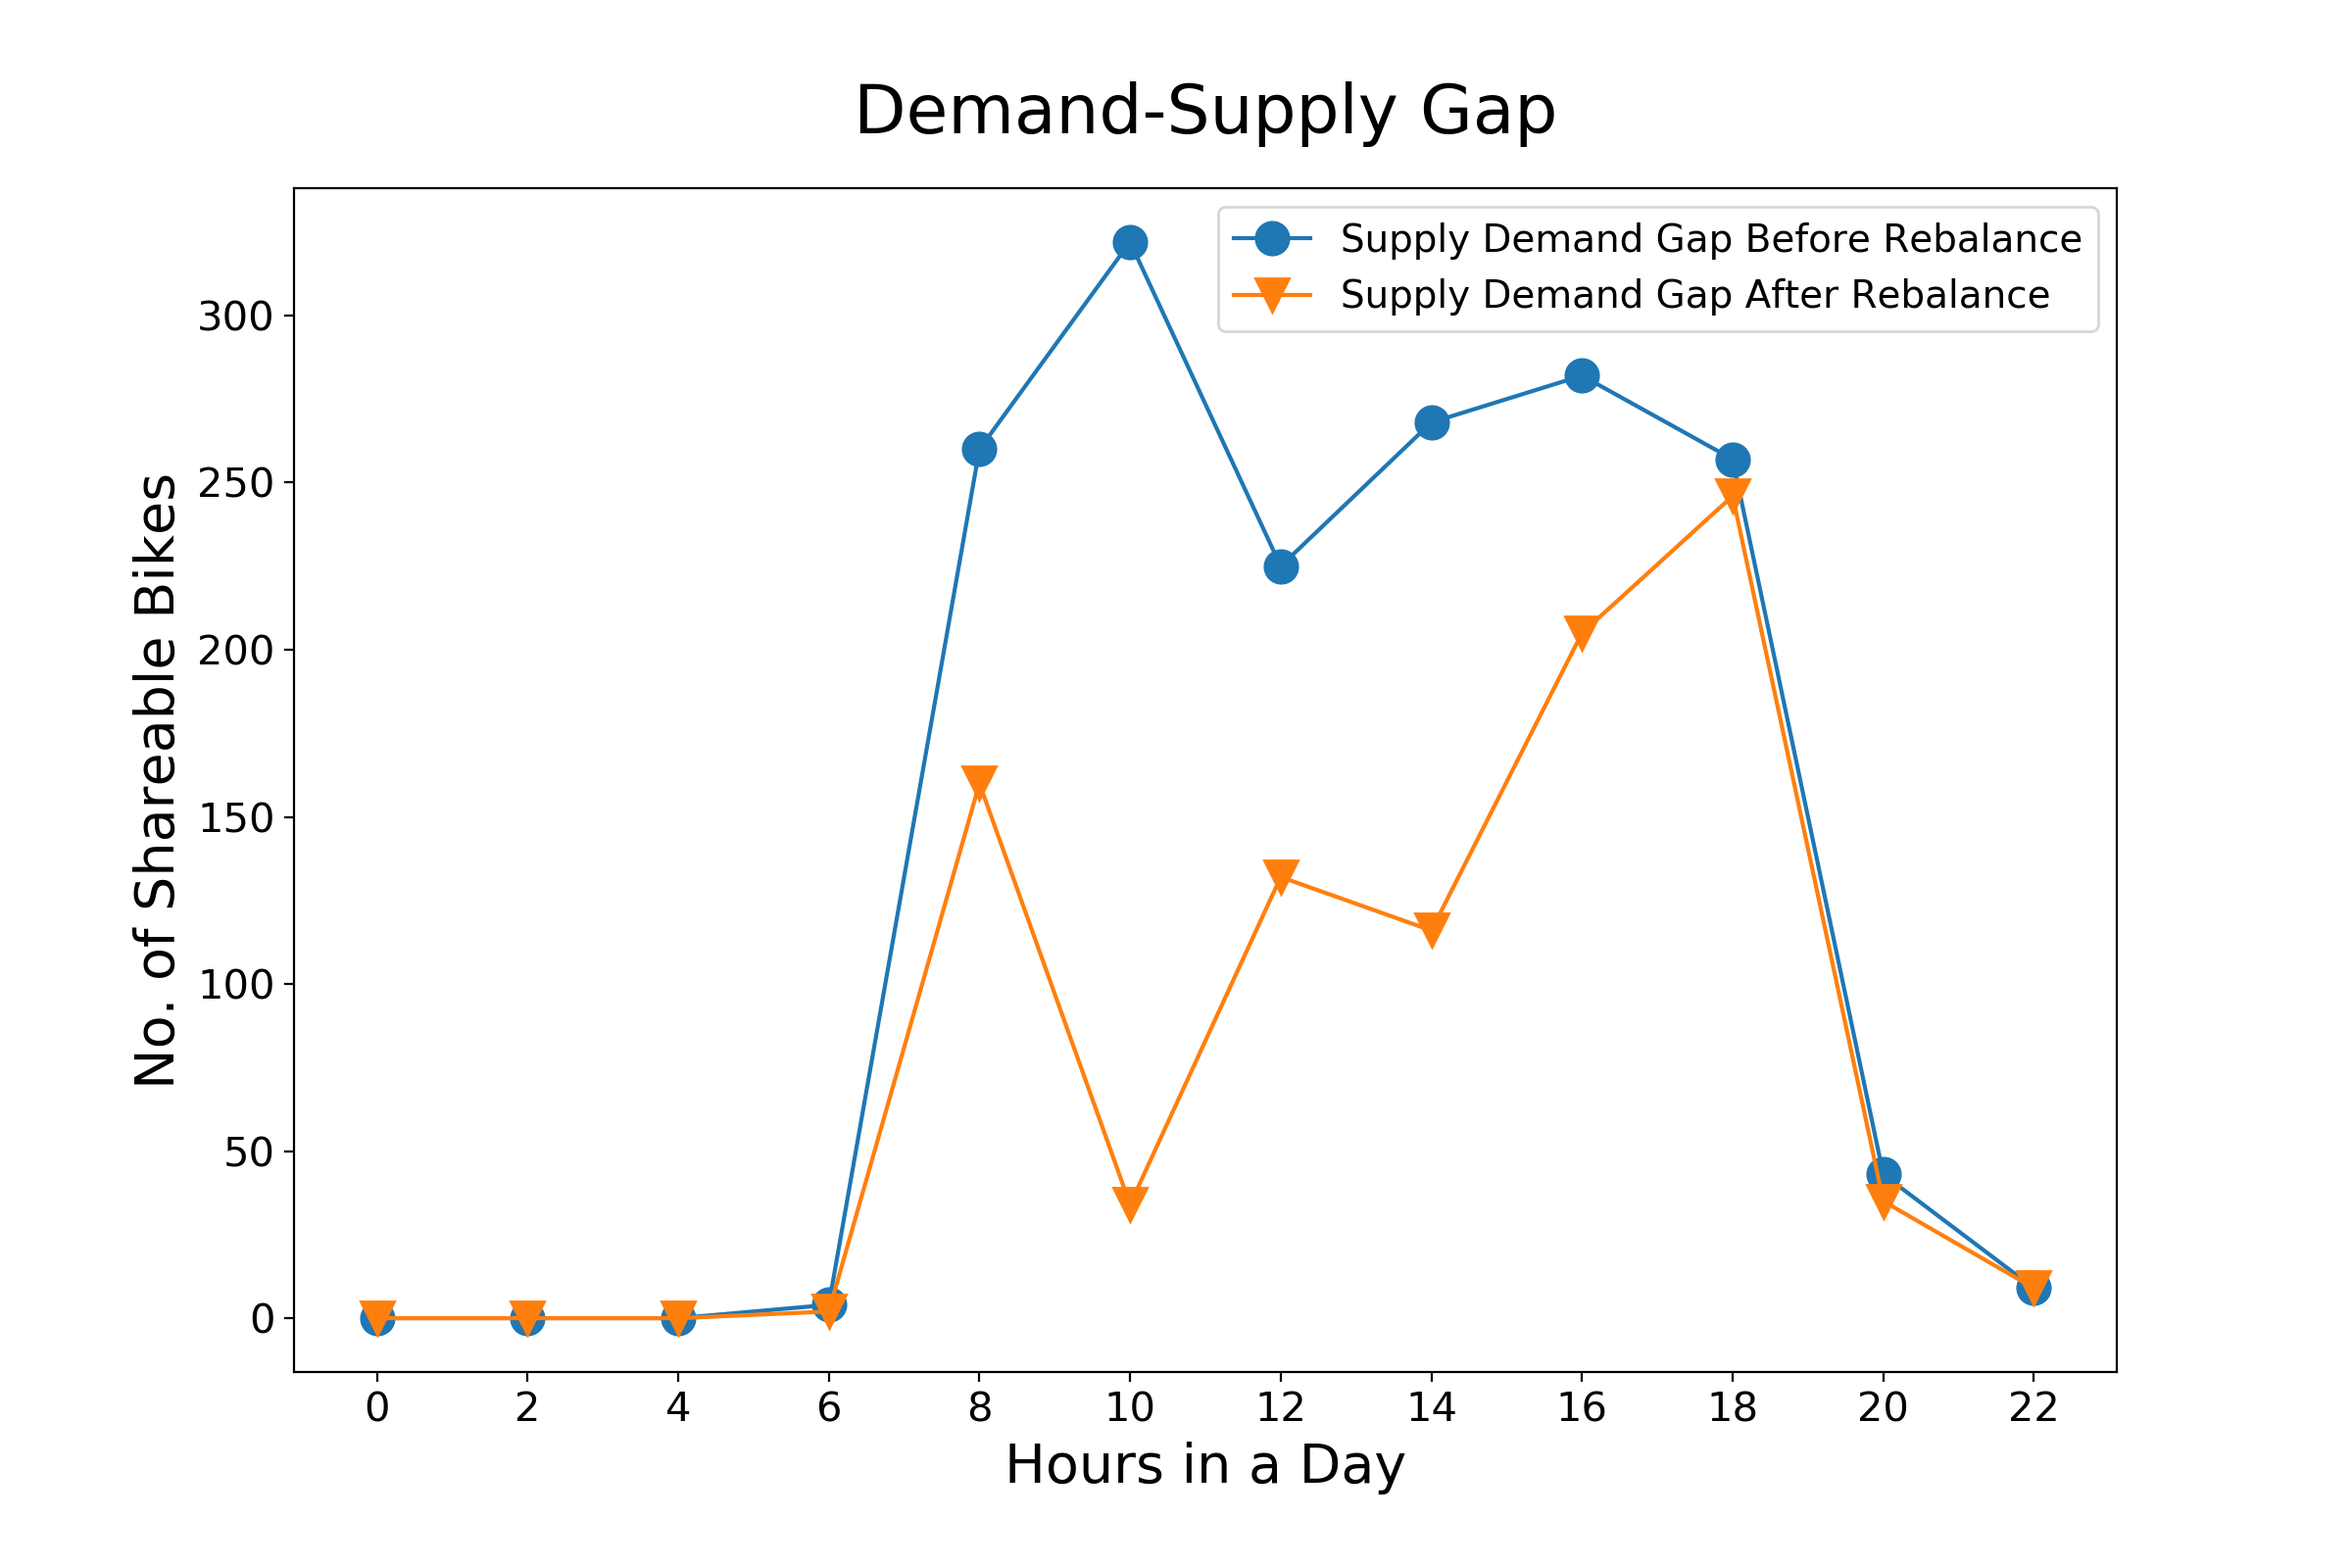
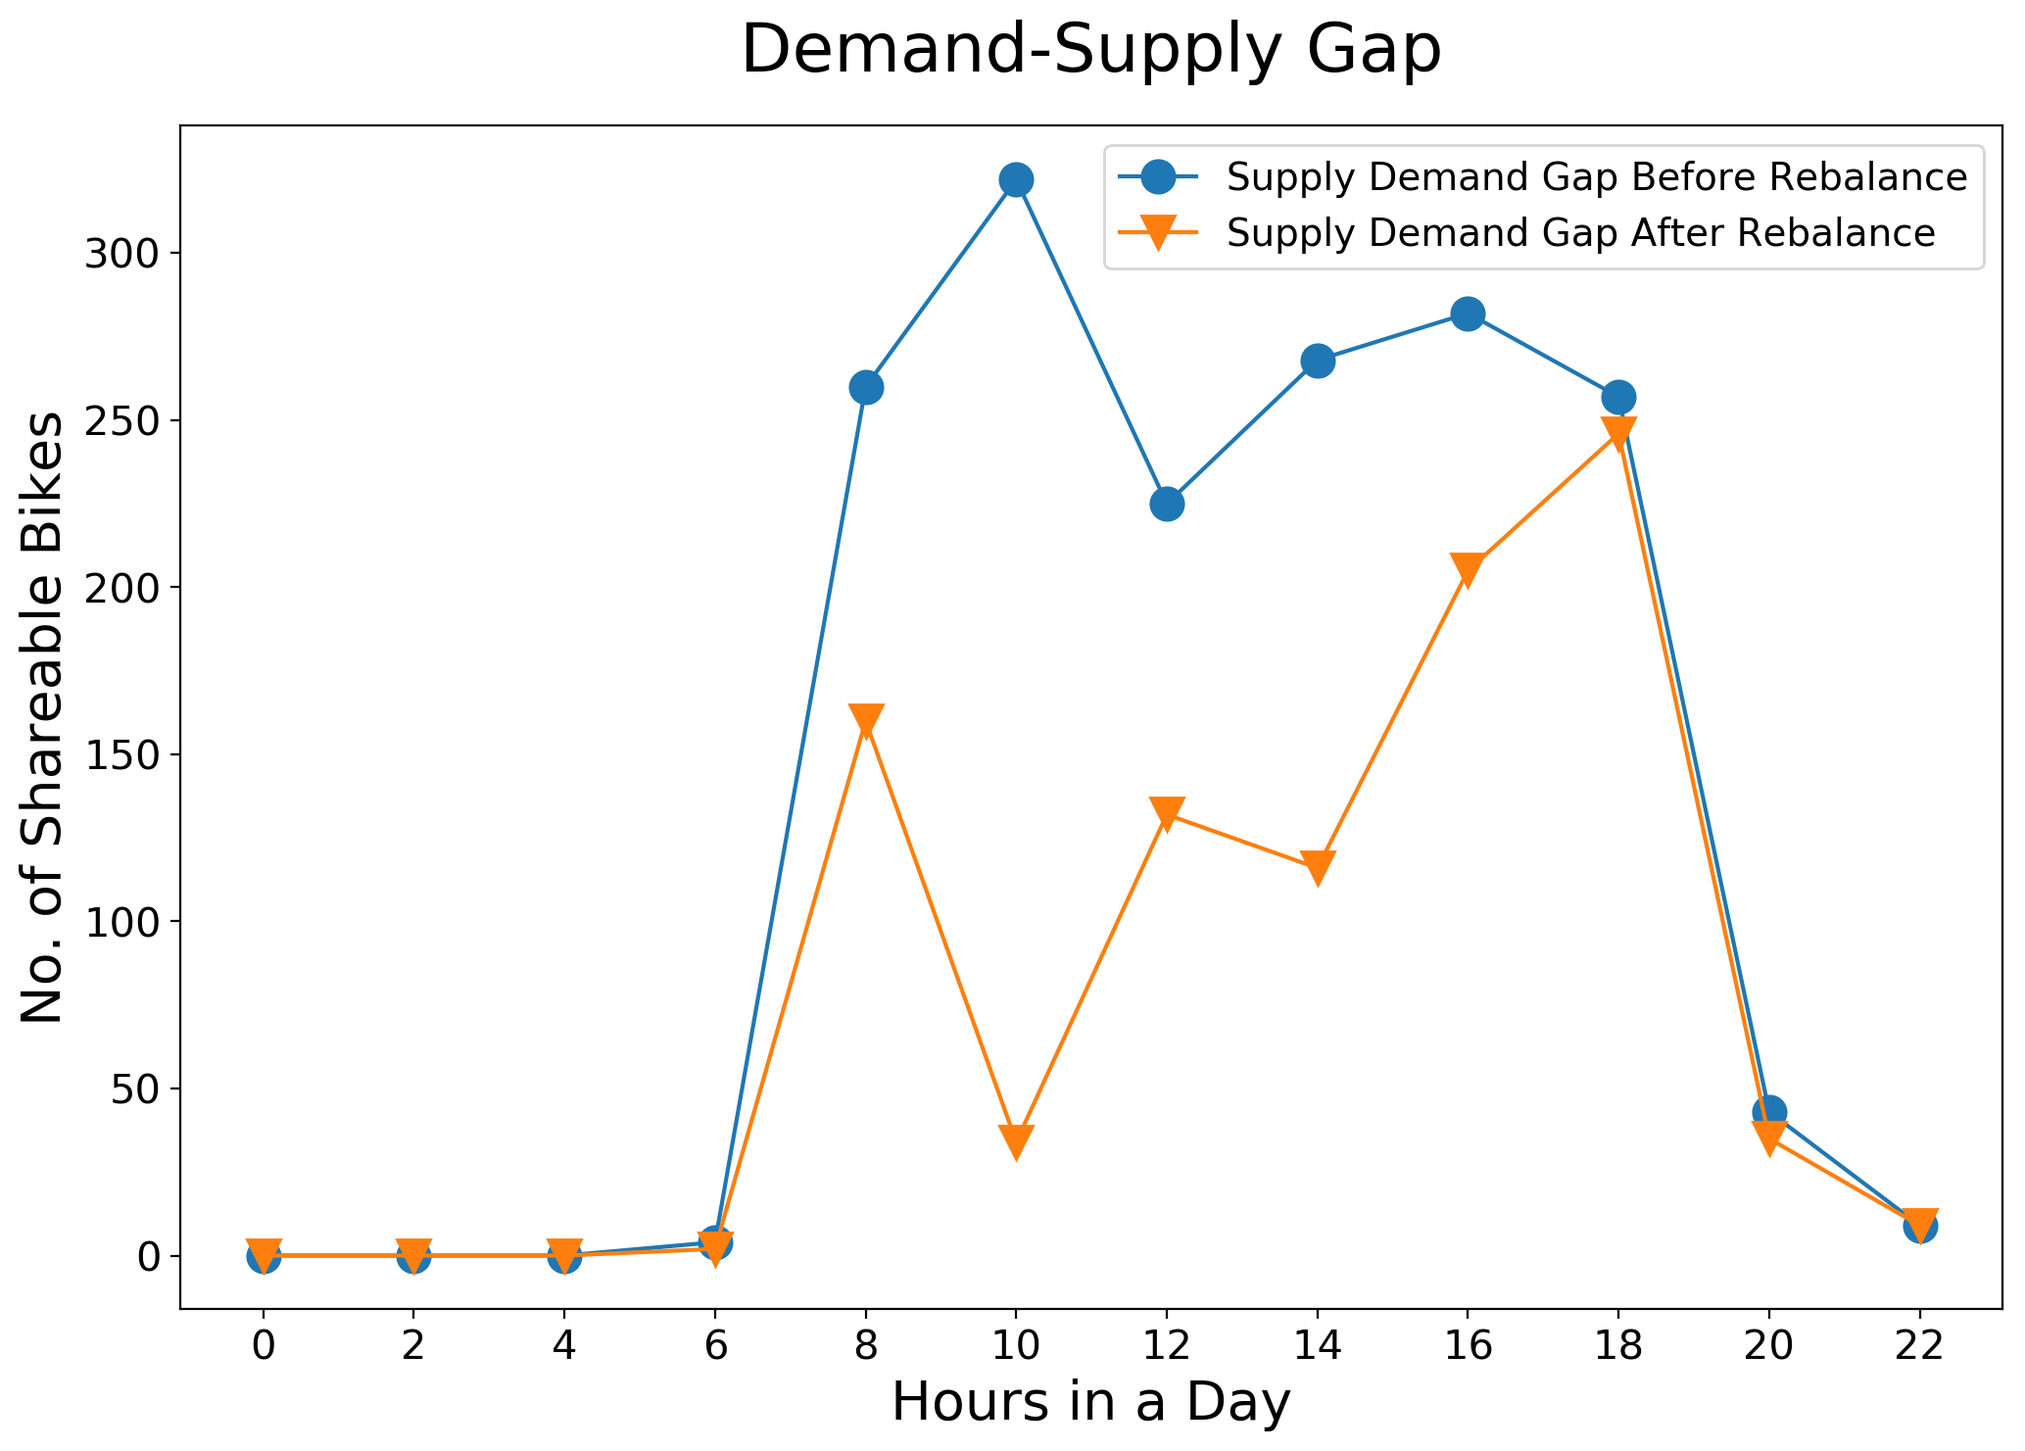
Add weather data

diff --git a/0_download_weather_data.py b/0_download_weather_data.py
@@ -1,0 +1,64 @@
+import urllib.request
+import json
+from datetime import datetime
+import pandas as pd
+pd.options.display.max_columns = 999
+
+# api_call = 'https://api.darksky.net/forecast/3797bfa568cb62217f3a3dcf22516d4e/51.5074,0.1278,'
+#
+# for unix_time in range(1514764800, 1514764800 + 86400*365, 86400):
+#     with urllib.request.urlopen("https://api.darksky.net/forecast/3797bfa568cb62217f3a3dcf22516d4e/51.5074,0.1278," + str(unix_time)) as url:
+#         data = json.loads(url.read().decode())
+#
+#     with open('data/raw/london-weather/{}.json'.format(unix_time), 'w', encoding='utf-8') as f:
+#         json.dump(data, f, ensure_ascii=False, indent=4)
+
+daily_data = []
+hourly_data = []
+
+for unix_time in range(1514764800, 1514764800 + 86400*365, 86400):
+    with open('data/raw/london-weather/{}.json'.format(unix_time)) as f:
+        data = json.load(f)
+
+    daily_data += data['daily']['data']
+    hourly_data += data['hourly']['data']
+
+
+daily_data_df = pd.DataFrame(data=daily_data)
+daily_data_df.describe(include='all')
+daily_data_df['time'].max()
+daily_data_df.info()
+daily_data_df.isnull().sum()
+daily_data_df[daily_data_df.isnull().any(axis=1)]
+daily_data_df['icon'].value_counts()
+
+
+daily_data_df['time'] = pd.to_datetime(daily_data_df['time'],unit='s')
+daily_data_df = daily_data_df.fillna(method = 'ffill').fillna(method = 'bfill')
+daily_data_df['icon'] = daily_data_df['icon'].replace('partly-cloudy-day', 'cloudy').replace('clear-day', 'clear')
+daily_data_df['rain'] = (daily_data_df['icon'] == 'rain').astype(int)
+daily_data_df['clear'] = (daily_data_df['icon'] == 'clear').astype(int)
+daily_data_df['cloudy'] = (daily_data_df['icon'] == 'cloudy').astype(int)
+daily_data_df = daily_data_df[['time', 'rain', 'clear', 'cloudy', 'apparentTemperatureHigh', 'apparentTemperatureLow', 'precipIntensity', 'dewPoint', 'humidity', 'windSpeed', 'uvIndex', 'visibility']]
+daily_data_df = daily_data_df.rename(columns = {'time': 'Time'})
+
+hourly_data_df = pd.DataFrame(data=hourly_data)
+hourly_data_df.describe(include='all')
+hourly_data_df['time'].max()
+hourly_data_df.info()
+hourly_data_df.isnull().sum()
+hourly_data_df['icon'].value_counts()
+hourly_data_df[hourly_data_df.isnull().any(axis=1)]
+
+
+hourly_data_df['time'] = pd.to_datetime(hourly_data_df['time'],unit='s')
+hourly_data_df = hourly_data_df.fillna(method = 'ffill')
+hourly_data_df['icon'] = hourly_data_df['icon'].replace('partly-cloudy-day', 'cloudy').replace('partly-cloudy-night', 'cloudy').replace('clear-day', 'clear').replace('clear-night', 'clear')
+hourly_data_df['rain'] = (hourly_data_df['icon'] == 'rain').astype(int)
+hourly_data_df['clear'] = (hourly_data_df['icon'] == 'clear').astype(int)
+hourly_data_df['cloudy'] = (hourly_data_df['icon'] == 'cloudy').astype(int)
+hourly_data_df = hourly_data_df[['time', 'rain', 'clear', 'cloudy', 'apparentTemperature', 'precipIntensity', 'dewPoint', 'humidity', 'windSpeed', 'uvIndex', 'visibility']]
+hourly_data_df = hourly_data_df.rename(columns = {'time': 'Time'})
+
+daily_data_df.to_csv('data/processed/london_daily_weather.csv', index = False)
+hourly_data_df.to_csv('data/processed/london_hourly_weather.csv', index = False)

diff --git a/3_prediction.py b/3_prediction.py
@@ -3,6 +3,8 @@ RNN_LAYER_UNITS = 50
 DENSE_LAYER_UNITS = 100
 EPOCHS = 200
 MODEL_EXPERIMENT_TIMES = 30
+WEATHER = 'daily'
+# WEATHER = 'hourly'
 WORKING_DIR = "."
 
 import warnings
@@ -215,6 +217,19 @@ def get_influencial_features_df(journeys_count_df):
     print('Processing Influential Features Data')
     features_df = journeys_count_df[['Time']]
     features_df = features_df.drop_duplicates()
+
+    if WEATHER == 'hourly':
+        print('Adding hourly weather info ----------')
+        weather_df = pd.read_csv(WORKING_DIR + '/data/processed/london_hourly_weather.csv', parse_dates=['Time'])
+        features_df = features_df.merge(weather_df)
+    elif WEATHER == 'daily':
+        print('Adding daily weather info ----------')
+        daily_data_df = pd.read_csv(WORKING_DIR + '/data/processed/london_daily_weather.csv', parse_dates=['Time'])
+        features_df = features_df.merge(daily_data_df, how = 'left')
+        features_df = features_df.fillna(method = 'ffill')
+    else:
+        print('Adding no weather info ----------')
+
     features_df['Hour'] = features_df['Time'].dt.hour
     features_df['DayOfWeek'] = features_df['Time'].dt.dayofweek
     features_df = features_df.set_index('Time')
@@ -360,8 +375,9 @@ def build_bi_lstm(x, y):
     model.compile(loss="mse", optimizer="adam")
     return model
 
+# journeys_count_df = pd.read_csv(WORKING_DIR + '/data/processed/london_journeys_count_with_2h_interval.csv', parse_dates=['Time'])
 journeys_count_df = pd.read_csv(WORKING_DIR + '/data/processed/london_journeys_count_with_2h_interval.csv', parse_dates=['Time'])
-# journeys_count_df = journeys_count_df[journeys_count_df['Station ID'] <= 2]
+journeys_count_df = journeys_count_df[journeys_count_df['Station ID'] <= 2]
 station_count = len(journeys_count_df['Station ID'].unique()) # 773
 train_X, train_y, test_X, test_y, features_df = prepare_data(journeys_count_df, timesteps = TIMESTEPS)
 

diff --git a/2_preprocess.py b/2_preprocess.py
@@ -12,6 +12,7 @@ import json
 # START_DATE = datetime(year = 2018, month = 1, day = 1, hour = 0)
 #
 # stations = pd.read_csv('data/raw/stations.csv')
+# stations.describe()
 # len(stations['Station ID'].unique())
 #
 # journeys_df = pd.read_csv('data/processed/london_clean_journeys.csv',
@@ -87,7 +88,6 @@ import json
 
 # Average Station Hourly Demand
 journeys_count_df = pd.read_csv('data/processed/london_journeys_count_with_2h_interval.csv', parse_dates=['Time'])
-
 dayofweek_mapper = dict(enumerate(list(calendar.day_name)))
 journeys_count_df['DayOfWeek'] = journeys_count_df['Time'].dt.dayofweek.map(dayofweek_mapper)
 journeys_count_df['Hour'] = journeys_count_df['Time'].dt.hour
@@ -131,3 +131,24 @@ fig.savefig('images/avg_station_hourly_supply', dpi = 200, bbox_inches = 'tight'
 # fig = plt.figure(figsize=(15, 8))
 # sns.lineplot(journeys_count_df.iloc[:10000]['Week Hour'], journeys_count_df.iloc[:10000]['In'])
 # plt.xticks(size=15, ticks=range(15, 24*7, 24), labels=list(calendar.day_name))
+
+
+daily_data_df = pd.read_csv('data/processed/london_daily_weather.csv', parse_dates=['Time'])
+hourly_data_df = pd.read_csv('data/processed/london_hourly_weather.csv', parse_dates=['Time'])
+daily_data_df.shape
+
+
+combined = journeys_count_df.merge(hourly_data_df)
+combined.info()
+combined.corr()
+
+
+journeys_count_df['day'] = journeys_count_df['Time'].dt.dayofyear
+daily_count_df = journeys_count_df.groupby(['day'])[['In', 'Out']].sum()
+daily_data_df.index = daily_data_df['Time'].dt.dayofyear
+daily_data_df.index.name = 'day'
+
+daily_count_df = daily_count_df.reset_index()
+daily_data_df = daily_data_df.reset_index()
+daily_combined = daily_count_df.merge(daily_data_df)
+daily_combined.corr()

diff --git a/4_result_analysis.py b/4_result_analysis.py
@@ -14,7 +14,7 @@ plt.ylabel('No. of Shareable Bikes', size=20)
 plt.xticks(size=15, ticks=range(0, cycles, 2))
 plt.yticks(size=15)
 plt.legend(fontsize=14)
-fig.savefig('images/Demand Supply Gap', dpi = 200)
+fig.savefig('images/Demand Supply Gap', dpi = 200, bbox_inches = 'tight')
 
 fig = plt.figure(figsize=(12, 8))
 plt.title('Usage vs. Rebalance', size=25, pad=20)
@@ -25,7 +25,7 @@ plt.ylabel('No. of Shareable Bikes', size=20)
 plt.xticks(size=15, ticks=range(0, cycles, 2))
 plt.yticks(size=15)
 plt.legend(fontsize=14)
-fig.savefig('images/Usage vs Rebalance', dpi = 200)
+fig.savefig('images/Usage vs Rebalance', dpi = 200, bbox_inches = 'tight')
 
 # supply_demand_gap_df = pd.read_csv('data/results/supply_demand_gap.csv')
 # supply_demand_gap_df[supply_demand_gap_df['Cycle8 (Bef)'] > 0]['Cycle8 (Bef)'].sum()
